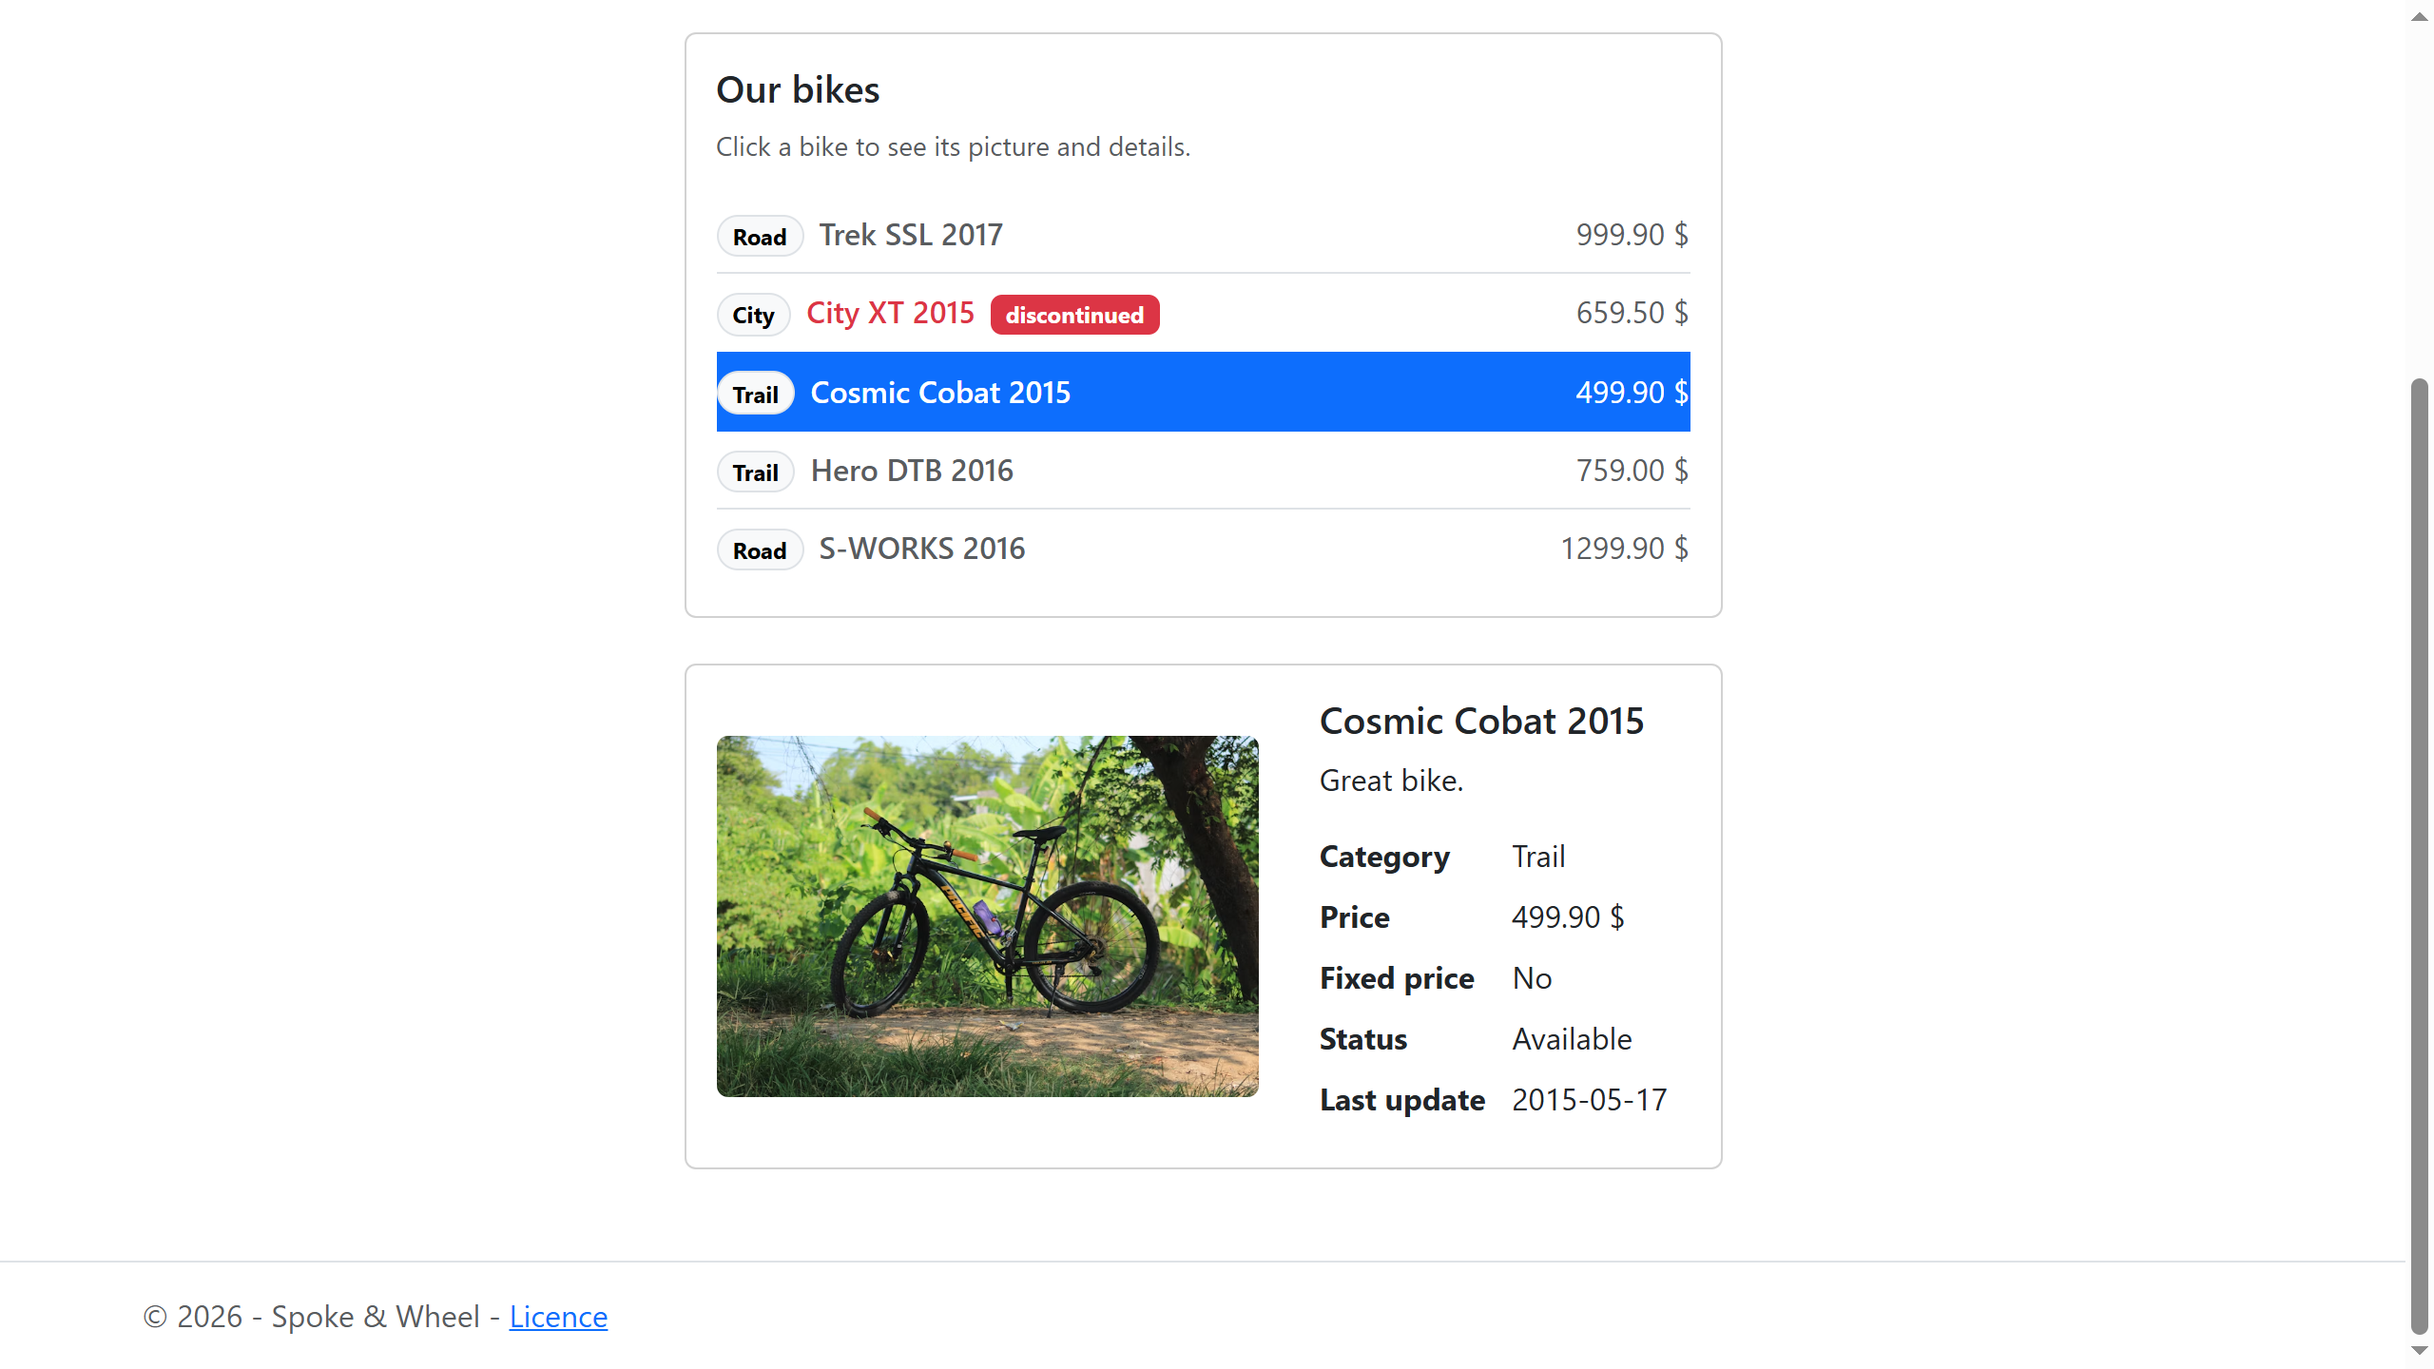
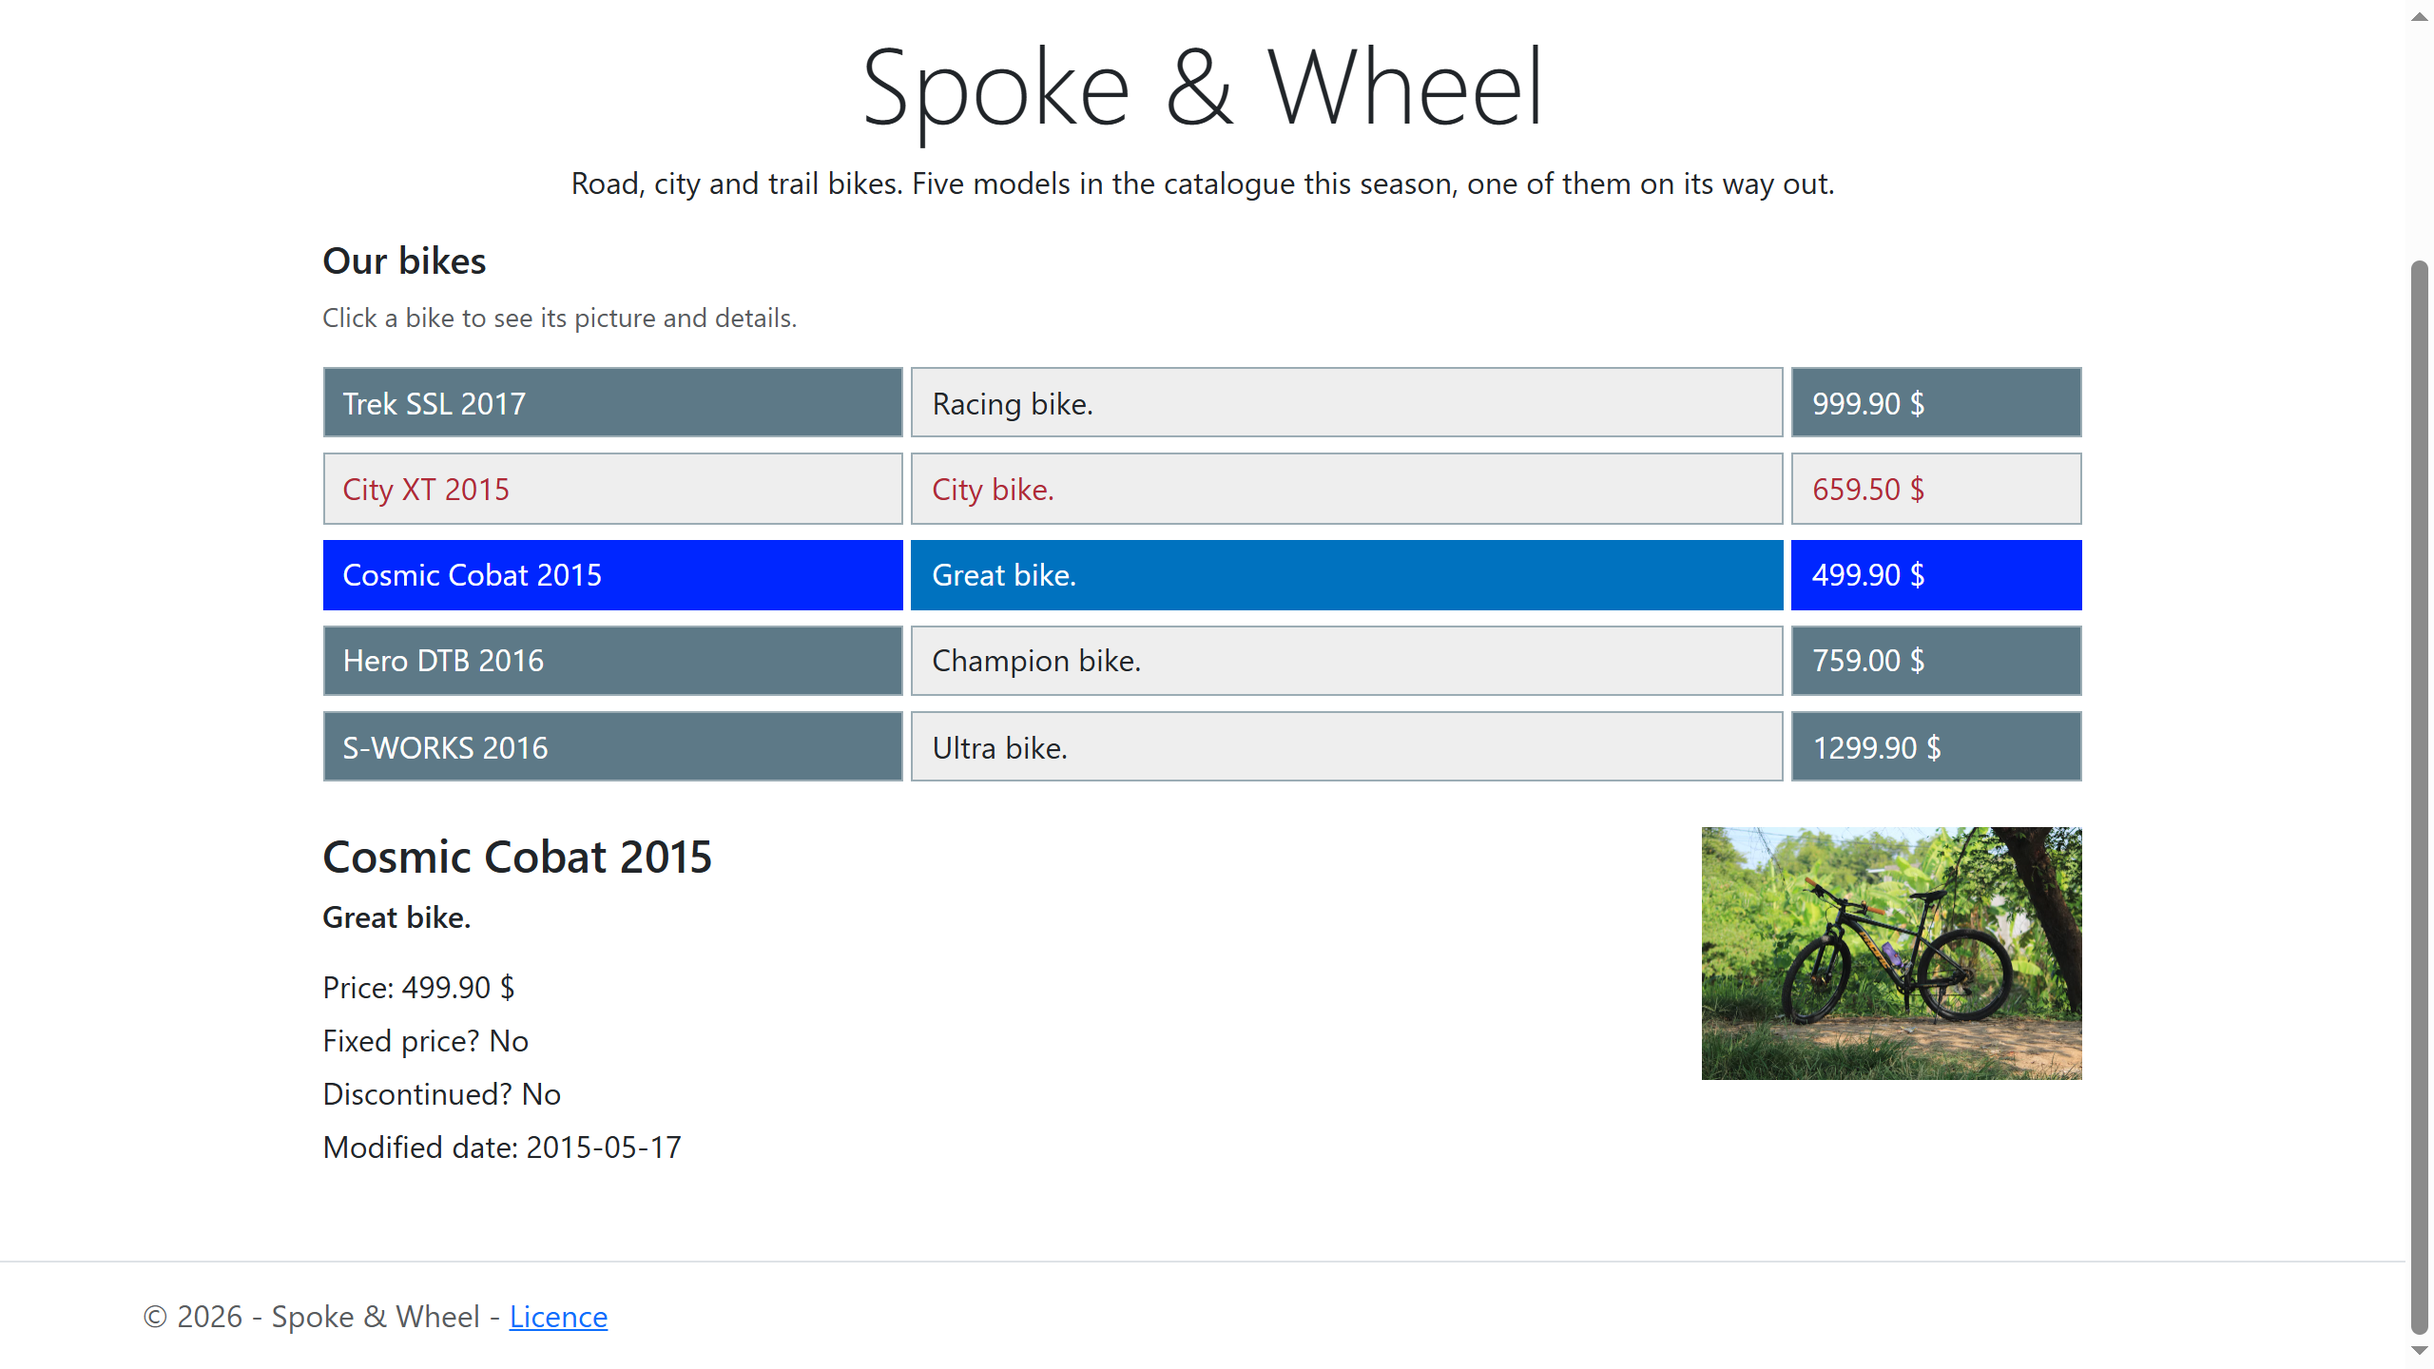
List as three coloured cells, detail with the picture on the right
Each row of the list is now three cells: the name on slate, the
description on light grey, the price on slate; the clicked row turns
blue and the discontinued one is written in red on light cells. The
colours come from scoped CSS on the component, bound to two classes on
the row. The category field is gone. The detail drops its card and
floats the 200 px picture on the right of the name, description, price,
fixed price, discontinued and modified date lines.

The slate and the light blue are one shade darker than the reference,
and the red sits on light cells, so every pair of colours reaches the
4.5:1 contrast of WCAG AA. Screenshots updated.

diff --git a/src/components/ProductList.vue b/src/components/ProductList.vue
@@ -1,7 +1,7 @@
 <script setup>
-// The list receives the catalogue and shows each bike with its category and
-// price; a discontinued model carries the red class and says so. Clicking a
-// bike tells the parent which one, and the chosen row is highlighted.
+// The list receives the catalogue and shows each bike on one row of three
+// cells: name, description, price; a discontinued model is written in red.
+// Clicking a bike tells the parent which one, and the chosen row turns blue.
 const props = defineProps({
   products: { type: Array, required: true },
   selected: { type: Object, default: null },
@@ -15,28 +15,90 @@ const isSelected = (product) => props.selected !== null && props.selected.id ===
 </script>
 
 <template>
-  <section class="card">
-    <div class="card-body">
-      <h2 class="card-title h5">{{ title }}</h2>
-      <p class="text-muted small">Click a bike to see its picture and details.</p>
-      <div class="list-group list-group-flush">
-        <button
-          v-for="product in products"
-          :key="product.id"
-          type="button"
-          class="list-group-item list-group-item-action px-0 d-flex justify-content-between align-items-center"
-          :class="{ 'text-danger': product.discontinued && !isSelected(product), active: isSelected(product) }"
-          :aria-pressed="isSelected(product)"
-          @click="$emit('select', product)"
-        >
-          <span>
-            <span class="badge rounded-pill text-bg-light border me-2">{{ product.category }}</span>
-            <span class="fw-semibold">{{ product.name }}</span>
-            <span v-if="product.discontinued" class="ms-2 badge text-bg-danger">discontinued</span>
-          </span>
-          <span :class="{ 'text-muted': !isSelected(product) }">{{ product.price.toFixed(2) }} $</span>
-        </button>
-      </div>
+  <section>
+    <h2 class="h5">{{ title }}</h2>
+    <p class="text-muted small">Click a bike to see its picture and details.</p>
+    <div class="product-list">
+      <button
+        v-for="product in products"
+        :key="product.id"
+        type="button"
+        class="product-row"
+        :class="{ discontinued: product.discontinued, selected: isSelected(product) }"
+        :aria-pressed="isSelected(product)"
+        @click="$emit('select', product)"
+      >
+        <span class="product-cell product-cell--dark">{{ product.name }}</span>
+        <span class="product-cell product-cell--light">{{ product.description }}</span>
+        <span class="product-cell product-cell--dark">{{ product.price.toFixed(2) }} $</span>
+      </button>
     </div>
   </section>
 </template>
+
+<style scoped>
+/* Three cells per row: dark, light, dark. The selected row turns blue, the
+   discontinued one is written in red on light cells; both come from a class
+   on the row. Every pair of colours reaches the 4.5:1 contrast of WCAG AA. */
+.product-list {
+  display: flex;
+  flex-direction: column;
+  gap: 0.5rem;
+}
+
+.product-row {
+  display: grid;
+  grid-template-columns: 2fr 3fr 1fr;
+  gap: 0.25rem;
+  width: 100%;
+  padding: 0;
+  border: 0;
+  background: none;
+  text-align: left;
+  font: inherit;
+  cursor: pointer;
+}
+
+.product-cell {
+  padding: 0.35rem 0.6rem;
+  border: 1px solid #9bacb4;
+}
+
+.product-cell--dark {
+  background: #5d7987;
+  color: #fff;
+}
+
+.product-cell--light {
+  background: #eee;
+  color: #212529;
+}
+
+.product-row.selected .product-cell--dark {
+  background: #0026ff;
+  border-color: #0026ff;
+}
+
+.product-row.selected .product-cell--light {
+  background: #0072bf;
+  border-color: #0072bf;
+  color: #fff;
+}
+
+.product-row.discontinued:not(.selected) .product-cell {
+  background: #eee;
+  color: #b02a37;
+}
+
+.product-row:focus-visible {
+  outline: 3px solid #0026ff;
+  outline-offset: 2px;
+}
+
+@media (max-width: 575.98px) {
+  .product-row {
+    grid-template-columns: 1fr;
+    gap: 0;
+  }
+}
+</style>

diff --git a/src/App.vue b/src/App.vue
@@ -7,11 +7,11 @@ import logo from './assets/logo.svg'
 // The catalogue lives here and is handed to the list as a prop; the bike
 // clicked in the list is shown in the detail panel under it.
 const products = [
-  { id: 1, name: 'Trek SSL 2017', price: 999.9, description: 'Racing bike.', category: 'Road', discontinued: false, fixedPrice: false, modifiedDate: '2017-06-17', imageUrl: 'https://images.unsplash.com/photo-1532298229144-0ec0c57515c7?auto=format&w=800&q=80' },
-  { id: 2, name: 'City XT 2015', price: 659.5, description: 'City bike.', category: 'City', discontinued: true, fixedPrice: false, modifiedDate: '2015-03-01', imageUrl: 'https://images.unsplash.com/photo-1606310241970-4858d5d08f6b?auto=format&w=800&q=80' },
-  { id: 3, name: 'Cosmic Cobat 2015', price: 499.9, description: 'Great bike.', category: 'Trail', discontinued: false, fixedPrice: false, modifiedDate: '2015-05-17', imageUrl: 'https://images.unsplash.com/photo-1728440585076-2589fa9b4aee?auto=format&w=800&q=80' },
-  { id: 4, name: 'Hero DTB 2016', price: 759, description: 'Champion bike.', category: 'Trail', discontinued: false, fixedPrice: false, modifiedDate: '2015-05-19', imageUrl: 'https://images.unsplash.com/photo-1673121414328-52eff37bc6d0?auto=format&w=800&q=80' },
-  { id: 5, name: 'S-WORKS 2016', price: 1299.9, description: 'Ultra bike.', category: 'Road', discontinued: false, fixedPrice: false, modifiedDate: '2015-06-17', imageUrl: 'https://images.unsplash.com/photo-1576435728678-68d0fbf94e91?auto=format&w=800&q=80' },
+  { id: 1, name: 'Trek SSL 2017', price: 999.9, description: 'Racing bike.', discontinued: false, fixedPrice: false, modifiedDate: '2017-06-17', imageUrl: 'https://images.unsplash.com/photo-1532298229144-0ec0c57515c7?auto=format&w=800&q=80' },
+  { id: 2, name: 'City XT 2015', price: 659.5, description: 'City bike.', discontinued: true, fixedPrice: false, modifiedDate: '2015-03-01', imageUrl: 'https://images.unsplash.com/photo-1606310241970-4858d5d08f6b?auto=format&w=800&q=80' },
+  { id: 3, name: 'Cosmic Cobat 2015', price: 499.9, description: 'Great bike.', discontinued: false, fixedPrice: false, modifiedDate: '2015-05-17', imageUrl: 'https://images.unsplash.com/photo-1728440585076-2589fa9b4aee?auto=format&w=800&q=80' },
+  { id: 4, name: 'Hero DTB 2016', price: 759, description: 'Champion bike.', discontinued: false, fixedPrice: false, modifiedDate: '2015-05-19', imageUrl: 'https://images.unsplash.com/photo-1673121414328-52eff37bc6d0?auto=format&w=800&q=80' },
+  { id: 5, name: 'S-WORKS 2016', price: 1299.9, description: 'Ultra bike.', discontinued: false, fixedPrice: false, modifiedDate: '2015-06-17', imageUrl: 'https://images.unsplash.com/photo-1576435728678-68d0fbf94e91?auto=format&w=800&q=80' },
 ]
 
 const selected = ref(null)
@@ -36,7 +36,7 @@ const selected = ref(null)
         <p>Road, city and trail bikes. Five models in the catalogue this season, one of them on its way out.</p>
       </div>
       <div class="row justify-content-center mt-2">
-        <div class="col-12 col-md-8 col-lg-6">
+        <div class="col-12 col-lg-10">
           <ProductList :products="products" :selected="selected" @select="selected = $event" />
           <ProductDetail v-if="selected" :product="selected" class="mt-4" />
         </div>

diff --git a/src/components/ProductDetail.vue b/src/components/ProductDetail.vue
@@ -1,35 +1,20 @@
 <script setup>
-// The detail panel shows the picture and every field of the bike picked in
-// the list. The picture is a public photo, linked, not stored here.
+// The detail panel shows every field of the bike picked in the list, with
+// its picture floated on the right. The picture is a public photo, linked,
+// not stored here.
 defineProps({
   product: { type: Object, required: true },
 })
 </script>
 
 <template>
-  <section class="card" aria-live="polite">
-    <div class="row g-0">
-      <div class="col-md-7 d-flex align-items-center p-3">
-        <img :src="product.imageUrl" :alt="product.name" class="img-fluid rounded" width="800" height="533">
-      </div>
-      <div class="col-md-5">
-        <div class="card-body">
-          <h2 class="card-title h5">{{ product.name }}</h2>
-          <p class="card-text">{{ product.description }}</p>
-          <dl class="row mb-0 gx-2">
-            <dt class="col-5 col-md-6">Category</dt>
-            <dd class="col-7 col-md-6">{{ product.category }}</dd>
-            <dt class="col-5 col-md-6">Price</dt>
-            <dd class="col-7 col-md-6">{{ product.price.toFixed(2) }} $</dd>
-            <dt class="col-5 col-md-6">Fixed price</dt>
-            <dd class="col-7 col-md-6">{{ product.fixedPrice ? 'Yes' : 'No' }}</dd>
-            <dt class="col-5 col-md-6">Status</dt>
-            <dd class="col-7 col-md-6" :class="{ 'text-danger': product.discontinued }">{{ product.discontinued ? 'Discontinued' : 'Available' }}</dd>
-            <dt class="col-5 col-md-6">Last update</dt>
-            <dd class="col-7 col-md-6">{{ product.modifiedDate }}</dd>
-          </dl>
-        </div>
-      </div>
-    </div>
+  <section aria-live="polite">
+    <img :src="product.imageUrl" :alt="product.name" class="img-fluid float-end ms-3 mb-2" width="200" height="150">
+    <h2 class="h4">{{ product.name }}</h2>
+    <h3 class="h6 mb-3">{{ product.description }}</h3>
+    <p class="mb-1">Price: {{ product.price.toFixed(2) }} $</p>
+    <p class="mb-1">Fixed price? {{ product.fixedPrice ? 'Yes' : 'No' }}</p>
+    <p class="mb-1" :class="{ 'text-danger': product.discontinued }">Discontinued? {{ product.discontinued ? 'Yes' : 'No' }}</p>
+    <p class="mb-0">Modified date: {{ product.modifiedDate }}</p>
   </section>
 </template>

diff --git a/README.md b/README.md
@@ -9,8 +9,8 @@
 [![Duplicated lines](https://sonarcloud.io/api/project_badges/measure?project=Arthure-code_spoke-and-wheel&metric=duplicated_lines_density)](https://sonarcloud.io/summary/new_code?id=Arthure-code_spoke-and-wheel)
 
 A small bike shop's catalogue: road, city and trail bikes in an array,
-rendered by one Vue component with a category, a price, and a red line for
-the model that is discontinued. Click a bike and a second component shows
+rendered by one Vue component with a description, a price, and a red line
+for the model that is discontinued. Click a bike and a second component shows
 its picture and every detail under the list.
 
 Vue 3 with `<script setup>`, built by Vite, styled with Bootstrap. Two
@@ -18,9 +18,9 @@ components, three props, one event, and a single `ref` for the bike picked.
 
 ## Screenshots
 
-![A white page with a drawn bicycle logo and the title Spoke & Wheel, then a card headed Our bikes listing five bikes, each with a category pill, Road, City or Trail, and its price: Trek SSL 2017, City XT 2015 in red with a discontinued badge, Cosmic Cobat 2015, Hero DTB 2016 and S-WORKS 2016](preview.png)
+![A white page with a drawn bicycle logo and the title Spoke & Wheel, then Our bikes: five rows of three cells, a slate cell with the name, a light grey cell with the description and a slate cell with the price: Trek SSL 2017 Racing bike 999.90 $, City XT 2015 City bike 659.50 $ in red on light cells, Cosmic Cobat 2015 Great bike 499.90 $, Hero DTB 2016 Champion bike 759.00 $ and S-WORKS 2016 Ultra bike 1299.90 $](preview.png)
 
-![The same page after a click on Cosmic Cobat 2015: its row is highlighted in blue and a detail card under the list shows its picture on the left and, on the right, the name, the description Great bike., the category Trail, the price 499.90 $, Fixed price No, the status Available and the last update 2015-05-17](preview-detail.png)
+![The same page after a click on Cosmic Cobat 2015: its three cells turn blue and, under the list, the name, the description Great bike., then Price: 499.90 $, Fixed price? No, Discontinued? No and Modified date: 2015-05-17, with the bike's picture floated on the right](preview-detail.png)
 
 ![The same page on a phone, filling the width, with Trek SSL 2017 selected and its detail card stacked under the list](preview-mobile.png)
 
@@ -43,10 +43,11 @@ which renders it. The child components hold no state of their own.
 pointing at a public photo on [Unsplash](https://unsplash.com/license), and
 the detail card binds it with `:src`; no image file lives in the repository.
 
-**Red is a class, bound to a boolean.** `:class="{ 'text-danger':
-product.discontinued }"` adds Bootstrap's red text class only when the flag
-is true; a `v-if` badge says why. Nothing about colour is written in the
-script.
+**Colour is a class, bound to a boolean.** `:class="{ discontinued:
+product.discontinued, selected: isSelected(product) }"` puts a class on
+the row; the scoped CSS of the component turns the cells red or blue.
+Nothing about colour is written in the script, and every pair of colours
+reaches the 4.5:1 contrast of WCAG AA.
 
 **The logo is an SVG drawn for the shop.** Imported by the root component
 and used twice, in the navigation bar and above the title, with an empty
@@ -68,15 +69,16 @@ any web server.
 
 ## Stack
 
-Vue 3.5 with `<script setup>`, Vite 8, Bootstrap 5.3. Two components, no
-router, no store, no other dependency. The bike photos are public pictures
+Vue 3.5 with `<script setup>`, Vite 8, Bootstrap 5.3 for the page frame
+and scoped CSS for the list. Two components, no router, no store, no other
+dependency. The bike photos are public pictures
 on Unsplash, linked by URL.
 
 ## Résumé
 
 Le catalogue d'une petite boutique de vélos, route, ville et sentier, dans
-un tableau rendu par un composant Vue, avec une catégorie, un prix et une
-ligne rouge pour le modèle discontinué. Un clic sur un vélo affiche sa photo
+un tableau rendu par un composant Vue, avec une description, un prix et
+une ligne rouge pour le modèle discontinué. Un clic sur un vélo affiche sa photo
 et tous ses détails dans un second composant, sous la liste. Le tableau et
 le vélo choisi vivent dans `App.vue` ; la liste les reçoit par props, ne les
 modifie jamais, et remonte le clic par un événement `select`. Les photos
